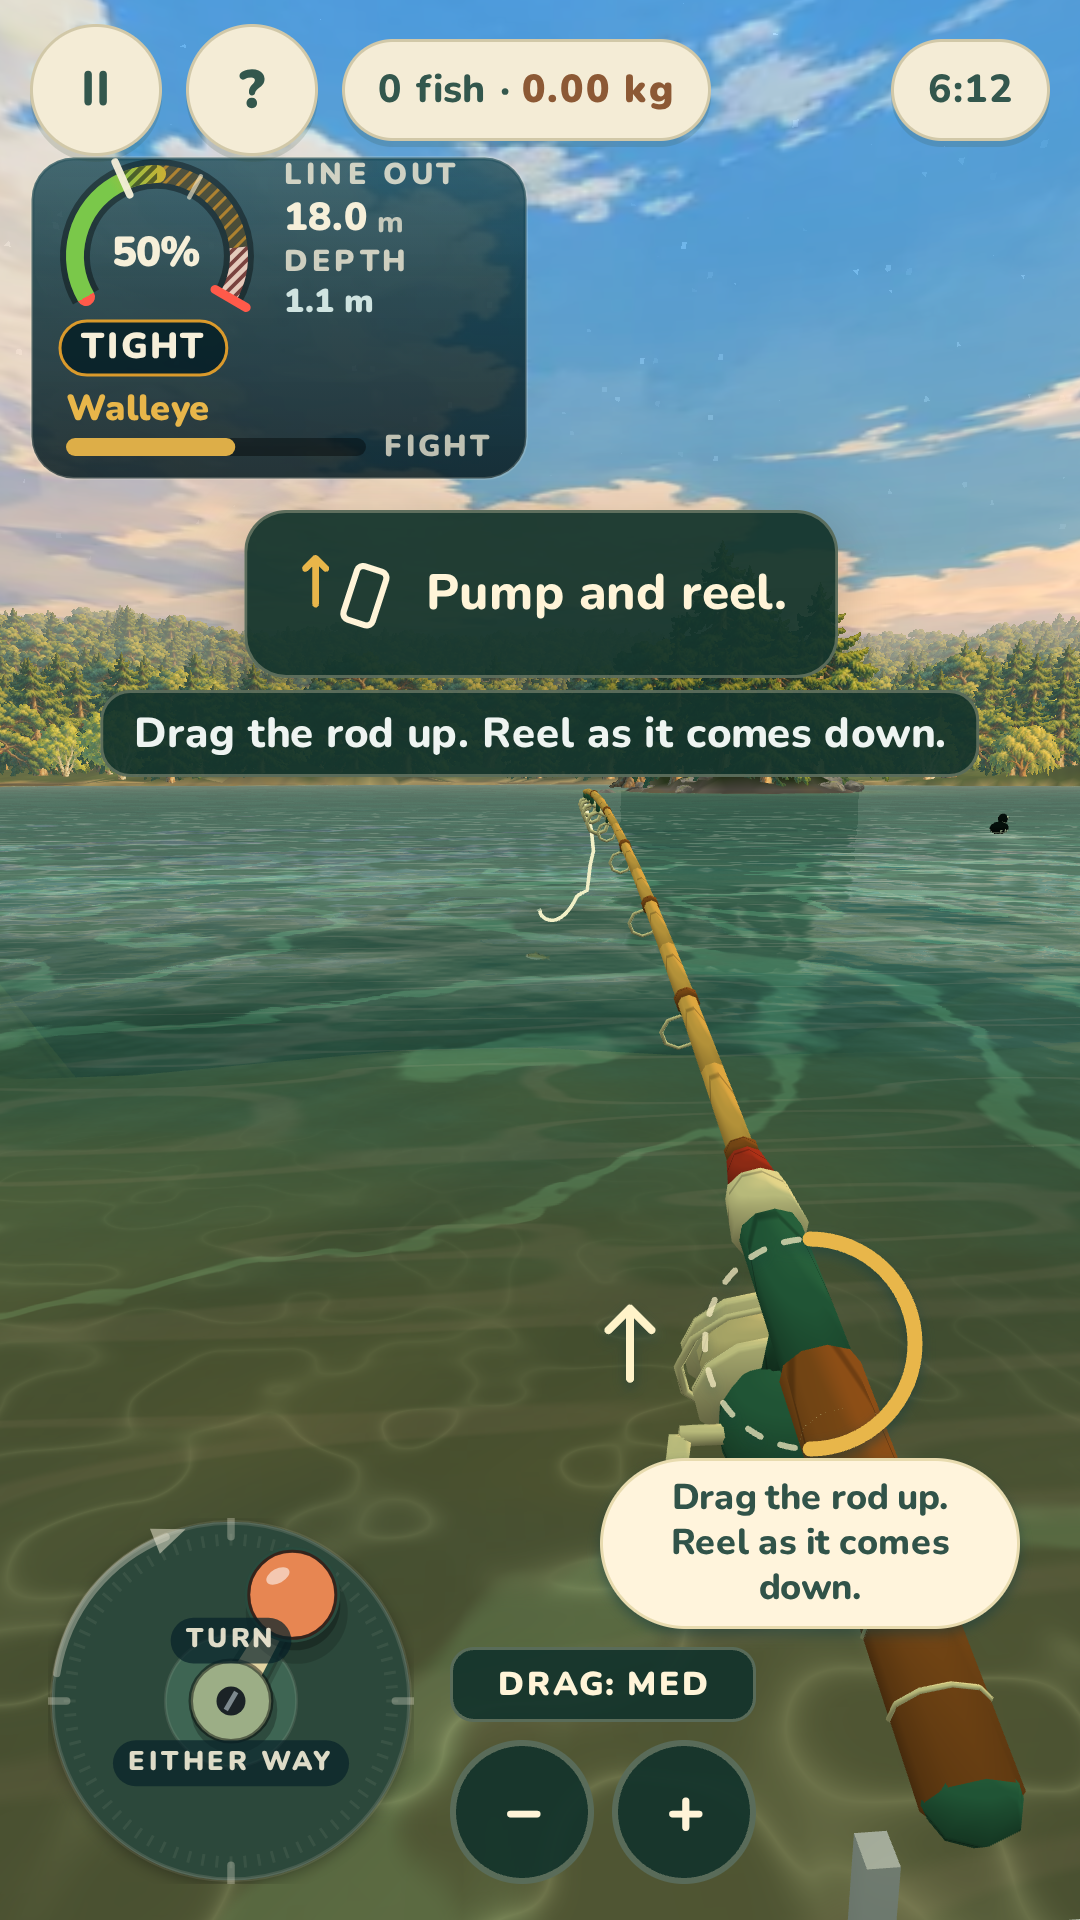
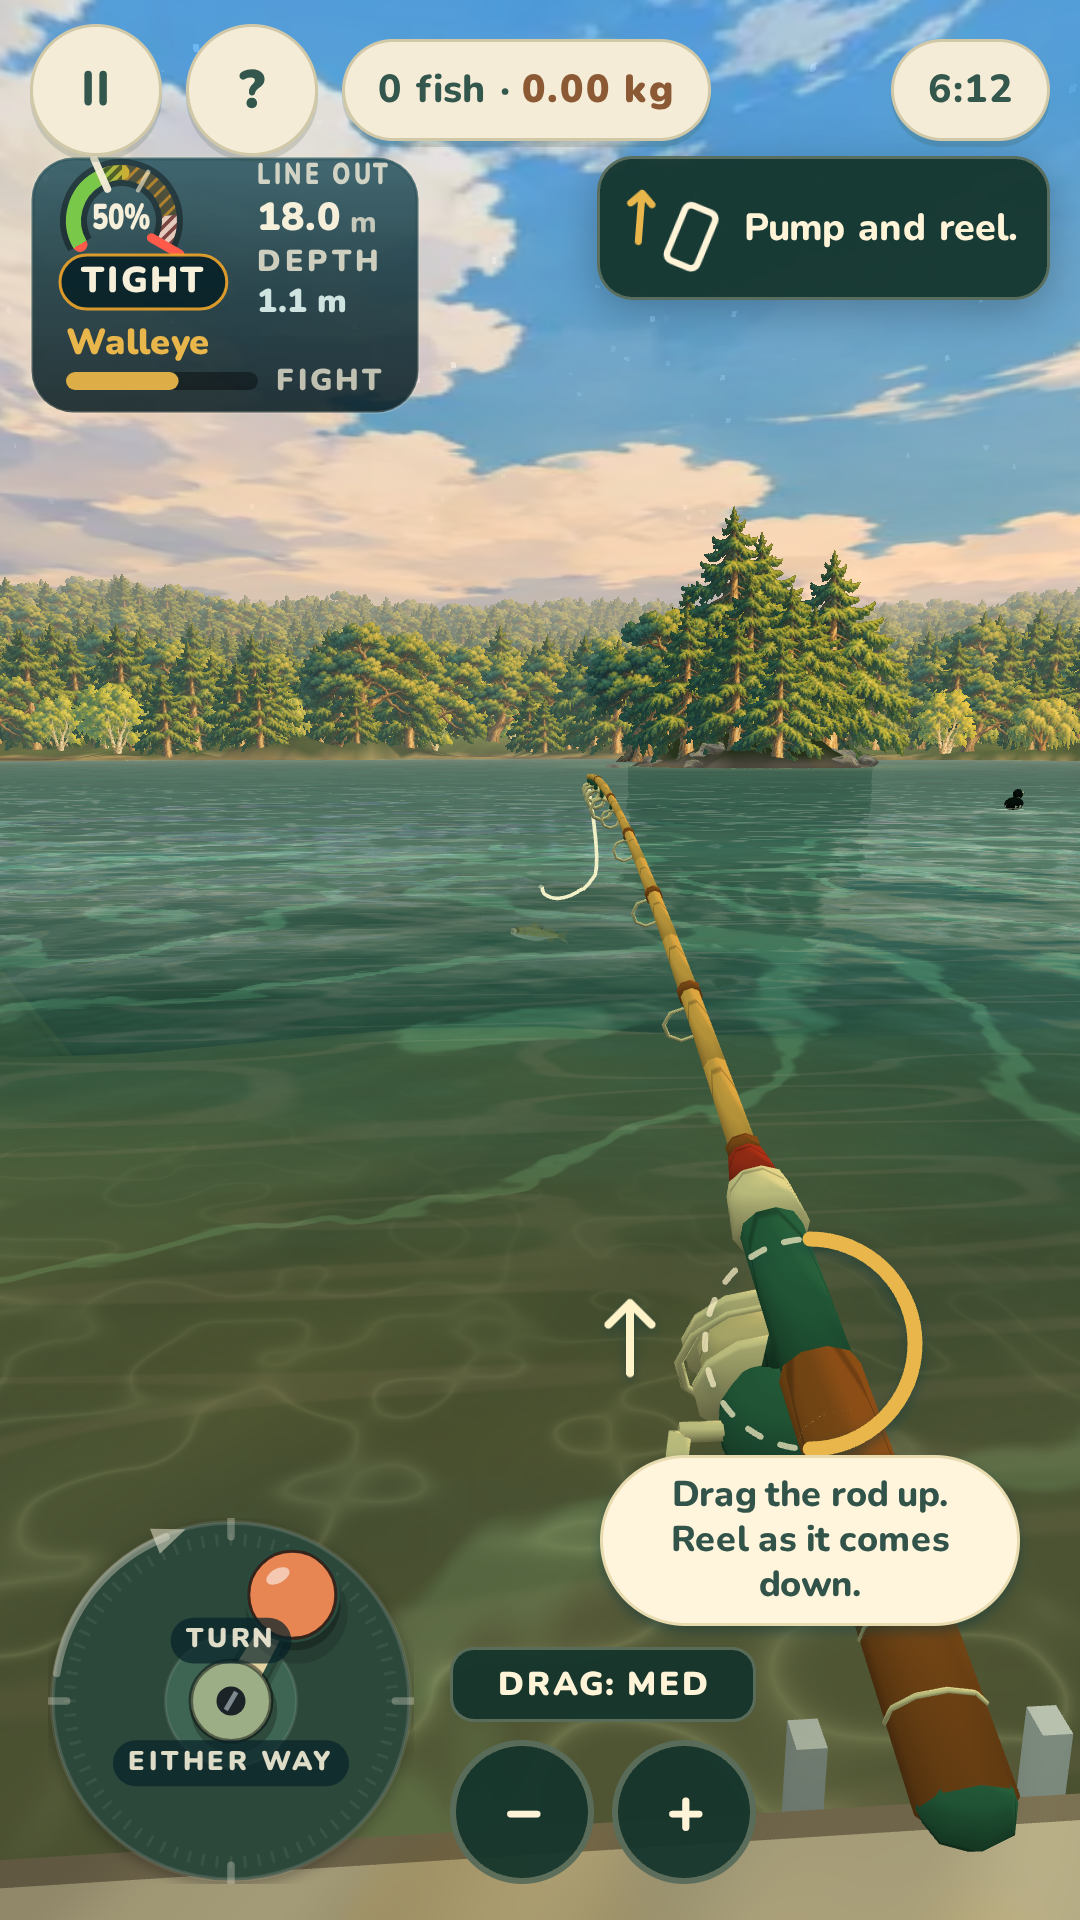
Reel It In: fade in the pull meter; new store screenshots; archive the change
The pull meter rose 14 px into the action card under it; it only fades
in now. The store screenshots show the new layout. The OpenSpec change
fish-big-fish-small-cues is archived into fish-fight, fish-feedback and
fish-menus-access.

Claude-Session: https://claude.ai/code/session_019xwLUdFmkQLgaPW29LKFxh

diff --git a/public/fish/index.html b/public/fish/index.html
@@ -158,8 +158,8 @@ button, a { font: inherit; color: inherit; cursor: pointer; }
 /* the reel controls come in with a short rise, not a jump */
 #reelUI:not([hidden]) > * { animation: rise 0.3s cubic-bezier(.2, .8, .2, 1); }
 @keyframes rise { from { opacity: 0; transform: translateY(14px); } }
-/* the gauge only fades in: the prompt sits just under it */
-#reelUI:not([hidden]) > #gaugeBox { animation-name: fade-in; }
+/* the gauge and the pull meter only fade in: the toast sits just under the gauge, and the action card under the pull meter */
+#reelUI:not([hidden]) > #gaugeBox, #reelUI:not([hidden]) > #pullStrength { animation-name: fade-in; }
 @keyframes fade-in { from { opacity: 0; } }
 
 /* ---------- HUD ---------- */

diff --git a/openspec/specs/fish-feedback/spec.md b/openspec/specs/fish-feedback/spec.md
@@ -74,7 +74,7 @@ The photo beat of a trophy, a legend or a fish that opens a place SHALL show the
 - **THEN** the fish and its ruler are inside the view, above the card on a tall view and to its left on a wide view
 
 ### Requirement: Messages clear of the lure
-In play, no message SHALL cover the lure on the water: the prompt and its sub, the cast report, the "Fish on!" banner, and a toast each SHALL keep at least 22 px from the lure's place on the screen. In the tall reel the cast report SHALL stand beside the gauge, and a toast SHALL wait while the report is up. In the wide reel the cast report SHALL stand at the top, opposite the gauge.
+In play, no message SHALL cover the lure on the water: the prompt and its sub, the cast report, the "Fish on!" banner, and a toast each SHALL keep at least 22 px from the lure's place on the screen. In the tall reel the cast report SHALL stand beside the gauge, a toast SHALL stand under the gauge, and a toast SHALL wait while the report is up. In the wide reel the cast report SHALL stand at the top, opposite the gauge, and a toast SHALL stand at the top between the gauge and the card.
 
 #### Scenario: A long cast in motion play
 - **WHEN** a cast lands 15, 35 or 55 m out in motion play at 360x640, 390x844, 412x915 or 430x932, with the reel on either side
@@ -86,4 +86,15 @@ In play, no message SHALL cover the lure on the water: the prompt and its sub, t
 
 #### Scenario: Larger text
 - **WHEN** a cast lands at 360x640 in motion play or at 844x390 in touch play with Larger text on
-- **THEN** no message is within 22 px of the lure, and a long toast beside the gauge does not cover the prompt.
+- **THEN** no message is within 22 px of the lure, and the card is clear of the gauge and the HUD.
+
+### Requirement: Action card in the corner
+In play, the prompt SHALL be a small card in the top corner opposite the gauge: the top right, or the top left when the reel is on the left in motion play. It SHALL be at most 210 px wide. Its picture SHALL move as the player must move: tip back, flick forward, raise, lower, steer, hold upright, or turn the crank. A pulse SHALL show the other actions. With reduced motion or Calm effects the picture SHALL be still. The how-to line under the card SHALL hide when the rod cue over the reel shows the same words. The card SHALL hide while the cast report is up, and it SHALL move down under the pull meter while that shows. The gauge SHALL be at most 190 x 120 px (220 x 140 px with Larger text), and its words SHALL not overlap.
+
+#### Scenario: A jump in motion play
+- **WHEN** a fish jumps in a fight at 360x640 in motion play
+- **THEN** the card in the top right says to lower the rod, its phone picture moves down and up, and the card is clear of the gauge and the HUD.
+
+#### Scenario: The reel on the left
+- **WHEN** the reel is on the left in motion play at 412x915
+- **THEN** the gauge is in the top right and the card is in the top left.

diff --git a/openspec/changes/archive/2026-10-06-fish-big-fish-small-cues/tasks.md b/openspec/changes/archive/2026-10-06-fish-big-fish-small-cues/tasks.md
@@ -3,16 +3,16 @@
 ## 1. Big fish
 - [x] 1.1 Add `showScale(kg)` to `species.js`, and draw the hooked fish and the follower's shadow with it in `world.js`, back to the true length near the rod
 - [x] 1.2 Pass the weight to the world (`main.js`, `fish.js`); junk keeps its size
-- [ ] 1.3 Check the scale in `qa/fish/size.test.mjs`
+- [x] 1.3 Check the scale in `qa/fish/size.test.mjs`
 
 ## 2. Small cues
 - [x] 2.1 Make the prompt a small card in the top corner opposite the gauge, with a moving picture for each icon
 - [x] 2.2 Hide the how-to line when the rod cue says the same; hide the card while the report is up; move it under the pull meter
 - [x] 2.3 Make the gauge smaller, and keep its numbers right of the state word
 - [x] 2.4 Move the reel toasts to the old prompt place, and remove the toast push
-- [ ] 2.5 Check the card's place, size and moving picture in `qa/fish/messages.e2e.mjs`
+- [x] 2.5 Check the card's place, size and moving picture in `qa/fish/messages.e2e.mjs`
 
 ## 3. Check
-- [ ] 3.1 Run the fish unit tests, the simulations and the browser checks
-- [ ] 3.2 Look at the store screenshots in a fight, a strike, a cast and touch play
-- [ ] 3.3 Validate and archive the change
+- [x] 3.1 Run the fish unit tests, the simulations and the browser checks
+- [x] 3.2 Look at the store screenshots in a fight, a strike, a cast and touch play
+- [x] 3.3 Validate and archive the change

diff --git a/openspec/specs/fish-fight/spec.md b/openspec/specs/fish-fight/spec.md
@@ -86,3 +86,14 @@ A brand-new player's first cast that lands in water SHALL bring a sure bite from
 #### Scenario: Good first cast
 - **WHEN** the first water cast lands 40 to 55 m out and the player cranks at 1 turn a second
 - **THEN** the first fish is landed within 25 s of the splash.
+
+### Requirement: Heavy fish look heavy
+Out in the water, a hooked fish and a fish that follows the lure SHALL be drawn bigger than their true length: at least 1.6 times, growing with the weight (2 times at 1 kg, 2.7 times at 5 kg), and at most 3.2 times. From 9 m in to 2.5 m from the rod, a fish SHALL shrink back to its true length. The catch photo, the measuring board and the journal SHALL keep the true length. Junk SHALL keep its true size.
+
+#### Scenario: A light fish and a heavy fish
+- **WHEN** a 0.2 kg fish and a 5 kg fish swim 15 m out
+- **THEN** the 0.2 kg fish is drawn about 1.7 times its length and the 5 kg fish about 2.7 times its length.
+
+#### Scenario: The fish at the rod
+- **WHEN** a fish is drawn 2 m from the rod, or lies on the measuring board
+- **THEN** it is drawn at its true length.

diff --git a/openspec/specs/fish-menus-access/spec.md b/openspec/specs/fish-menus-access/spec.md
@@ -95,8 +95,8 @@ The prompt, the guide caption, and the rod cue SHALL use the same words for the 
 Every screen SHALL fit at 390x844, 360x640, 430x932, 844x390, 820x1180, and 1280x800 with no clipped text, no overlap, and its Close or Done button in view or in a scroll that shows it. The HUD chip SHALL show the full derby weight at 360 px.
 
 #### Scenario: Cast report with Larger text
-- **WHEN** a cast lands in the water at 360x640 with Larger text on, and the prompt sub takes two lines
-- **THEN** the cast report stands beside the gauge and does not overlap the prompt, the gauge or the HUD.
+- **WHEN** a cast lands in the water at 360x640 with Larger text on
+- **THEN** the cast report stands beside the gauge, the action card in that corner hides while the report is up, and the report does not overlap the gauge or the HUD.
 
 #### Scenario: Small Android phone
 - **WHEN** the derby HUD shows 12.4 kg at 360x640
